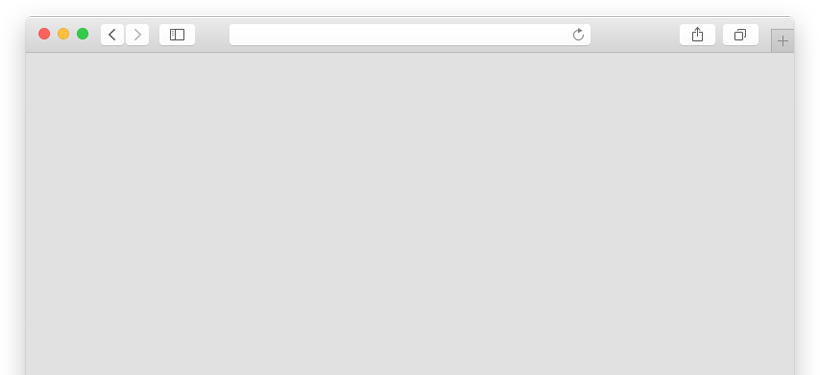
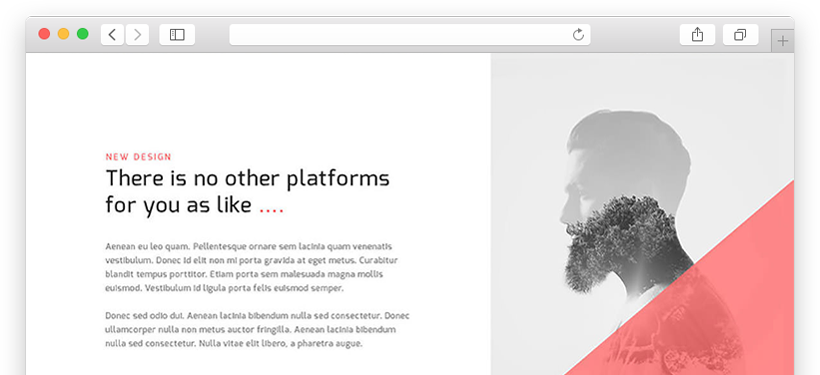
img section

diff --git a/index.html b/index.html
@@ -87,6 +87,7 @@
                 </div>
                 <div class="col-lg-5">
                     <div class="fon">
+                        <img src="img/office.jpg" alt="img">
                         <div class="right_corner"></div>
                     </div>
                 </div>
@@ -410,7 +411,6 @@
 </body>
 
 <script src="libs/jquery.js"></script>
-<script src="libs/owlcarousel/owl.carousel.min.js"></script>
 <script src="js/main.js"></script>
 
 </html>

diff --git a/css/style.css b/css/style.css
@@ -340,12 +340,19 @@
     display: flex;
     justify-content: flex-end;
     align-items: flex-end;
+    position: relative;
+  }
+  .fon img {
+    height: 100%;
+    width: 100%;
+    object-fit: cover;
   }
   .right_corner {
-    width: 0;
-    height: 0;
     border-bottom: 100px solid #fb8686;
     border-left: 100px solid transparent;
+    position: absolute;
+    bottom: 0;
+    right: 0;
   }
   /* section_fishka */
   .section_fishka {
